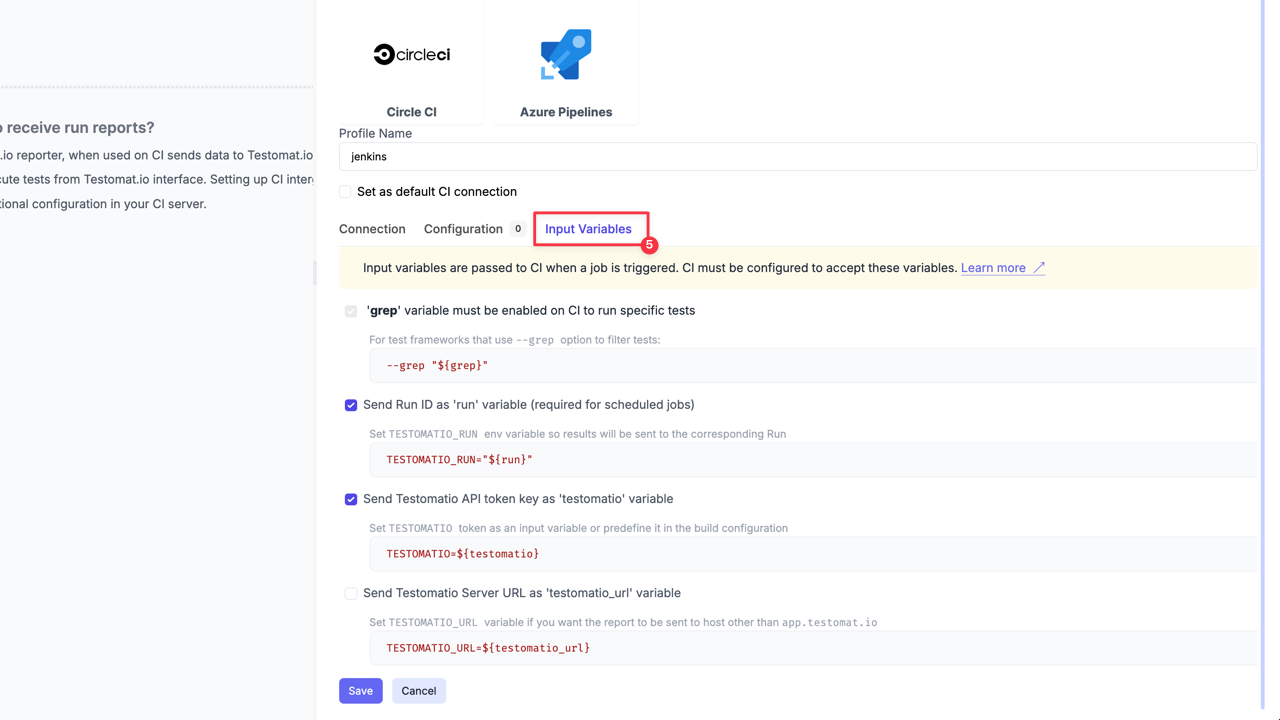
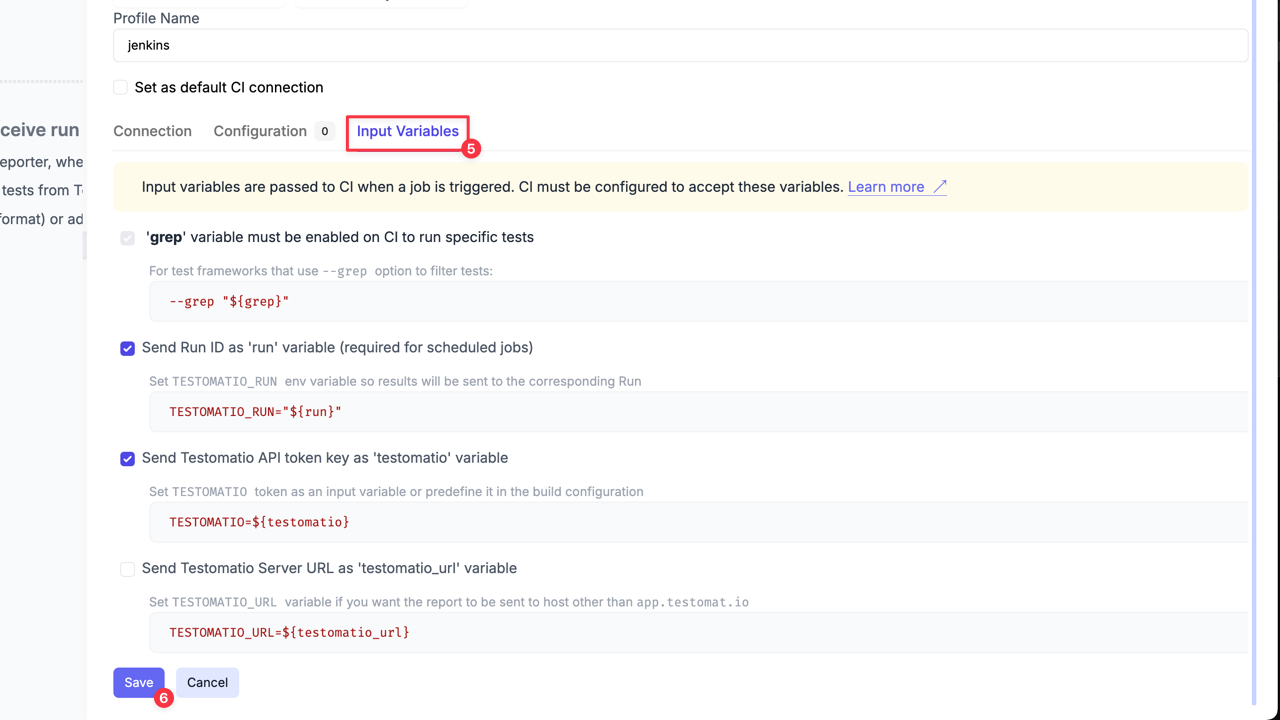
Bamboo_CI

diff --git a/src/content/docs/integrations/continuous-integration/bamboo.md b/src/content/docs/integrations/continuous-integration/bamboo.md
@@ -17,58 +17,83 @@ head:
 
 Let's configure Bamboo CI server to work for CodeceptJS framework:
 
-1. Create a plan for testomatio to run in testomatio
+1. Create a plan in Bamboo for Testomat.io to run in Testomat.io.
 
-![Configure](./images/107243443-02fe9280-6a53-11eb-91e9-862a30c8daa3.png)
+![Testomatio - Bamboo](./images/Bamboo_1.png)
 
-2. Note the plan key. In this case its "TES"
-3. Configure the job to install node dependencies
-![install](./images/107244050-9f289980-6a53-11eb-8942-f508c2f643ce.png)
+2. Note the **'Plan key'**. In this case its **'TES'**.
+3. Configure the job to install node dependencies.
 
-4. Add the script to run codeceptJS tests:
+![Testomatio - Bamboo](./images/Bamboo_2.png)
+
+4. Add the script to run CodeceptJS tests:
 
 ```
 TESTOMATIO_RUN=${bamboo.run} npx codeceptjs run --grep "${bamboo.grep}"
 ```
 Following environment variables must be set:
 
-* **Add `TESTOMATIO` environment variable with API key of Testomatio project.**
-* If you are running a self-hosted Testomatio instance, add `TESTOMATIO_URL` variable to specify a host to which reports will be sent.
+- **Add `TESTOMATIO` environment variable with API key of Testomatio project.**
+- If you are running a self-hosted Testomatio instance, add `TESTOMATIO_URL` variable to specify a host to which reports will be sent.
 
-![Script](./images/107244927-95536600-6a54-11eb-94d7-812ddbe6d917.png)
+![Testomatio - Bamboo](./images/Bamboo_3.png)
 
 5. Set an input variable. Open Plan configuration:
 
-![image](./images/113134762-e2b8ac00-9229-11eb-863c-21697595ae04.png)
+![Testomatio - Bamboo](./images/Bamboo_4.png)
 
-add  `grep` and `run` variables with an empty string as a default value
+add `grep` and `run` variables with an empty string as a default value
 
-![image](./images/113135720-1f38d780-922b-11eb-9fda-1efe77951d98.png)
+![Testomatio - Bamboo](./images/Bamboo_5.png)
 
-Now, configure Bamboo integration at Testomatio:
+Now, as Bamboo is configured, you need to configure Bamboo integration at Testomat.io:
 
-1. Go to settings > CI and enter the details of Bamboo server. [Check this](https://confluence.atlassian.com/bamboo/personal-access-tokens-976779873.html) to generate API token
+1. Go to Settings.
+2. Select Continuous Integration.
+3. Click 'Connect to CI'. 
 
-![CI settings](./images/107245863-a51f7a00-6a55-11eb-89d9-52f66402ba0f.png)
+![Testomatio - CI](./images/CI_4.png)
+
+4. Select **'Atlassian Bamboo'** and enter the details of Bamboo server on **'Connection'** tab:
+
+- `Bamboo Hostname` - URL of Bamboo host.
+- `API Token` - to generate API token [check this](https://confluence.atlassian.com/bamboo/personal-access-tokens-976779873.html).
+- `Project Key` - Chars ID, in our example its `EX`.
+- `Plan Key` - Chars ID, in our example its `TES`.
 
 A project and plan keys can be found from URL:
 
-![image](./images/108208802-2ea80980-7132-11eb-9315-cf0465826f55.png)
+![Testomatio - Bamboo](./images/Bamboo_6.png)
 
-2. Enable `run` option on Input Variables tab. This allows CI to send a report to a specific Run inside Testomatio.
+![Testomatio - Bamboo](./images/Bamboo_7.png)
 
-![image](./images/113136335-ebaa7d00-922b-11eb-9012-72d0d9646380.png)
+5. Enable `run` option on **'Input Variables'** tab. This allows CI to send a report to a specific Run inside Testomat.io.
+6. Click **'Save'** button and check the connection.
 
-You can pass more input variables if you set them in [Environment Configuration](./index.md#environment-configuration)
+![Testomatio - Bamboo](./images/Bamboo_8.png)
 
-3. Open Runs page (or any test or suite) then select `Run in CI` option in extra menu.
+:::note
 
-![image](./images/113136648-46dc6f80-922c-11eb-9e72-3a3356c5f647.png)
+You can pass more input variables if you set them in [Environment Configuration](./index.md#environment-configuration).
 
-Select "Bamboo" profile in a list. Optionally, configure a Run Title and select a Test Plan.
+:::
 
-![image](./images/113136785-6f646980-922c-11eb-9dc0-d001bdf13610.png)
+7a. Open **'Runs'** page then select `Run Automated Tests in CI` option in extra menu.
 
-4. Launch a run and wait for the results.
+![Testomatio - Bamboo](./images/Bamboo_9.png)
 
-![Runs view](./images/107249055-f67d3880-6a58-11eb-9794-539cfa797002.png)
+8a. Select **'Bamboo'** profile in a list. Optionally, select a **Test Plan** or create a new one.
+
+![Testomatio - Bamboo](./images/Bamboo_10.png)
+
+OR
+
+7b. On **'Tests'** page select any automated suite or test case -> click **'Extra menu'** button -> select **'Run Tests'** option -> open **'Run in CI'** tab.
+
+8b. Select **'Bamboo'** profile in a list.
+
+![Testomatio - Bamboo](./images/Bamboo_9a.gif)
+
+9. Launch a Run and wait for the results.
+
+![Testomatio - Bamboo](./images/Bamboo_11.png)

diff --git a/src/content/docs/integrations/continuous-integration/jenkins.md b/src/content/docs/integrations/continuous-integration/jenkins.md
@@ -68,20 +68,18 @@ After Jenkins is set up, go to Testomat.io and create a new **CI connection** in
 2. Select **Continuous Integration**.
 3. Click **'Connect to CI'**.
 
-![Testomatio - Jenkins](./images/Jenkins_6.png)
+![Testomatio - CI](./images/CI_4.png)
 
 4. Select **'Jenkins'** and fill in all required fields:
 
-- `Jenkins Hostname` - URL of Jenkins host
-- `Username` - a user on Jenkins which will trigger builds
+- `Jenkins Hostname` - URL of Jenkins host.
+- `Username` - a user on Jenkins which will trigger builds.
 - `API Token` - a token we created previously in the user's settings.
-- `Job Name` - the name of a job we just created
+- `Job Name` - the name of a job we just created.
 
 ![Testomatio - Jenkins](./images/Jenkins_7.png)
 
 5. Switch to **'Input variables'** tab and enable variables that was configured for parametrized builds
-
-![Testomatio - Jenkins](./images/Jenkins_8.png)
 
 :::note
 
@@ -90,6 +88,8 @@ Don't forget to select `testomatio_url` if you use on-premise version.
 :::
 
 6. Click **'Save'** button and check the connection.
+
+![Testomatio - Jenkins](./images/Jenkins_8.png)
 
 Now you can run a test or a group of tests via Jenkins CI. 
 For a custom configuration read about [Environment Variables](./index.md#environment-configuration)
